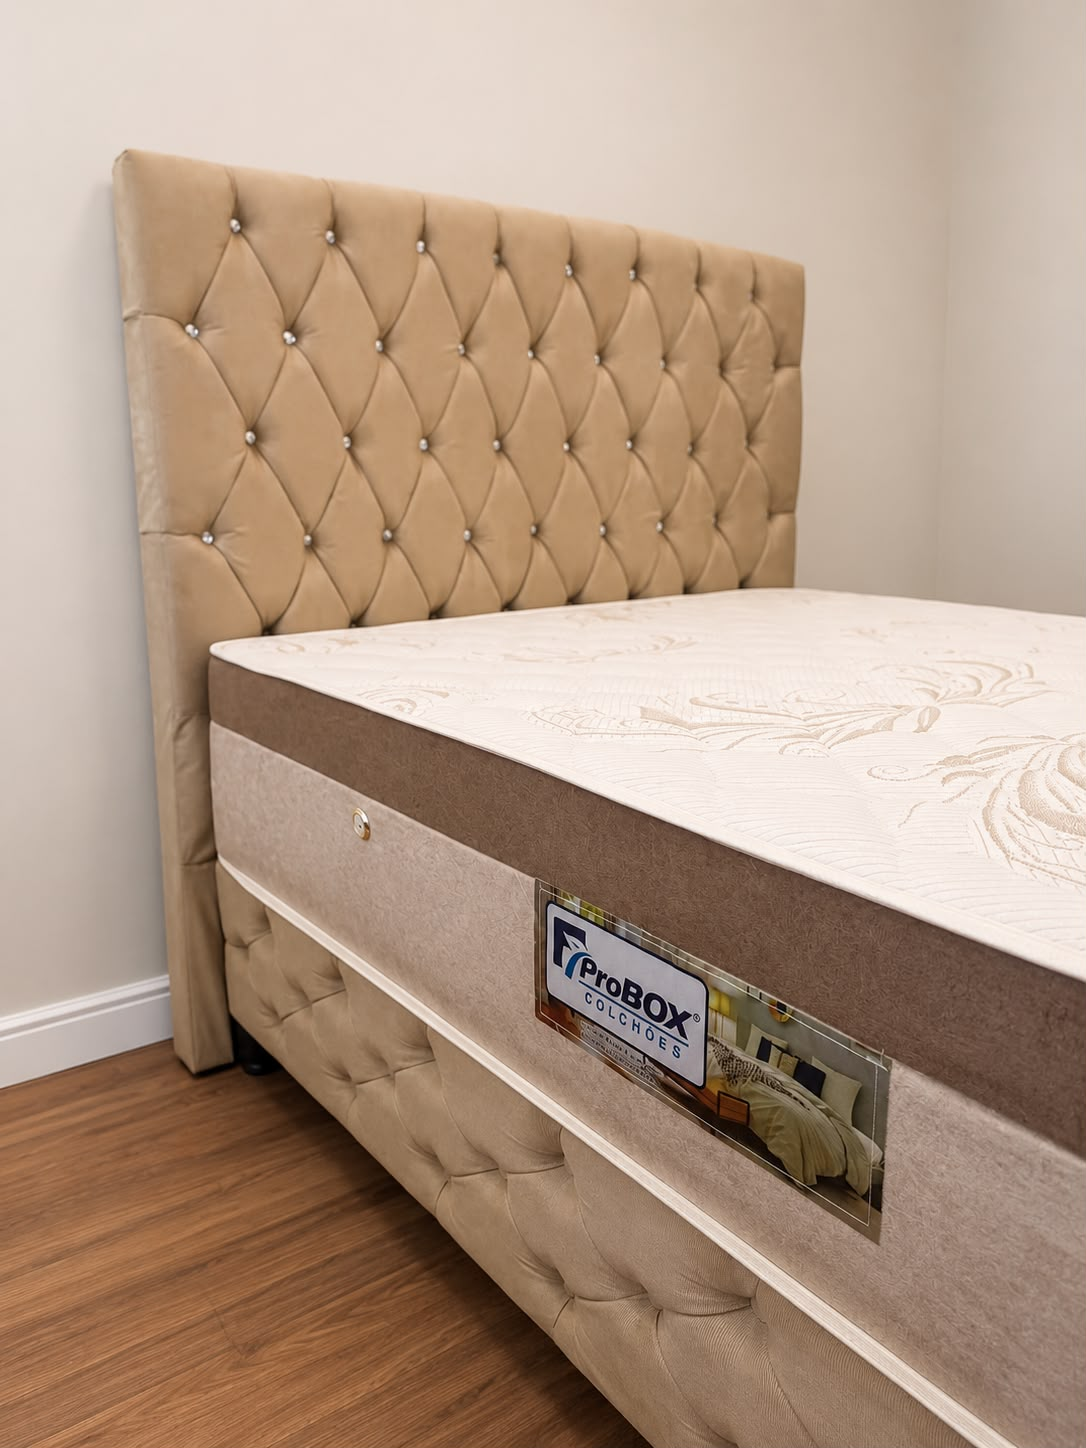
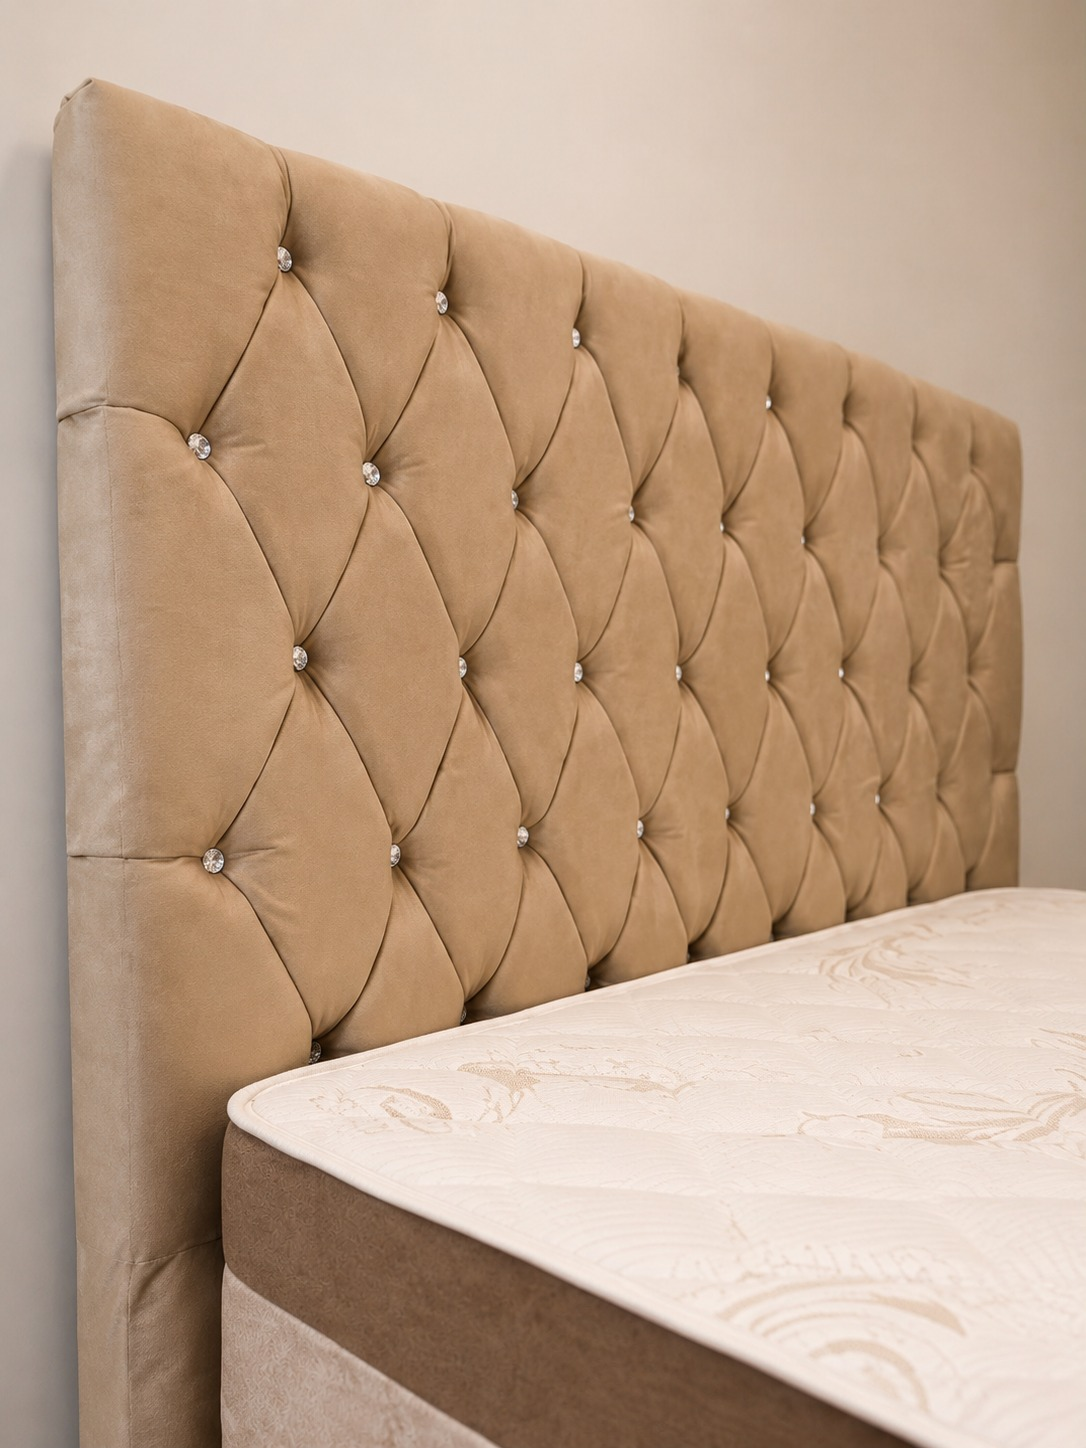
fix best pratices on code

diff --git a/index.html b/index.html
@@ -112,6 +112,7 @@
               "https://probox-mpdg.onrender.com/assets/FotoColchao.jpeg",
               "https://probox-mpdg.onrender.com/assets/FotoColchao2.jpeg",
               "https://probox-mpdg.onrender.com/assets/FotoCabeceira.jpeg",
+              "https://probox-mpdg.onrender.com/assets/FotoCabeceira2.jpeg",
               "https://probox-mpdg.onrender.com/assets/showroom.jpg"
             ],
             "logo": "https://probox-mpdg.onrender.com/assets/logo-small.png",
@@ -404,8 +405,8 @@
             <img
               src="assets/logo-light.jpg"
               alt="ProBox Colchões"
-              width="400"
-              height="266"
+              width="108"
+              height="72"
             />
           </a>
           <div class="nav-links">
@@ -760,7 +761,7 @@
               <figure>
                 <div class="work-media">
                   <img
-                    src="assets/FotoCabeceira.jpeg"
+                    src="assets/FotoCabeceira2.jpeg"
                     alt="Detalhe de colchão ProBox com cabeceira capitonê bege e acabamento estofado"
                     width="1086"
                     height="1448"

diff --git a/styles.css b/styles.css
@@ -152,8 +152,9 @@ p {
   align-items: center;
 }
 .brand img {
-  height: auto;
+  height: 72px;
   width: auto;
+  aspect-ratio: 400 / 266;
 }
 .nav-links {
   display: flex;
